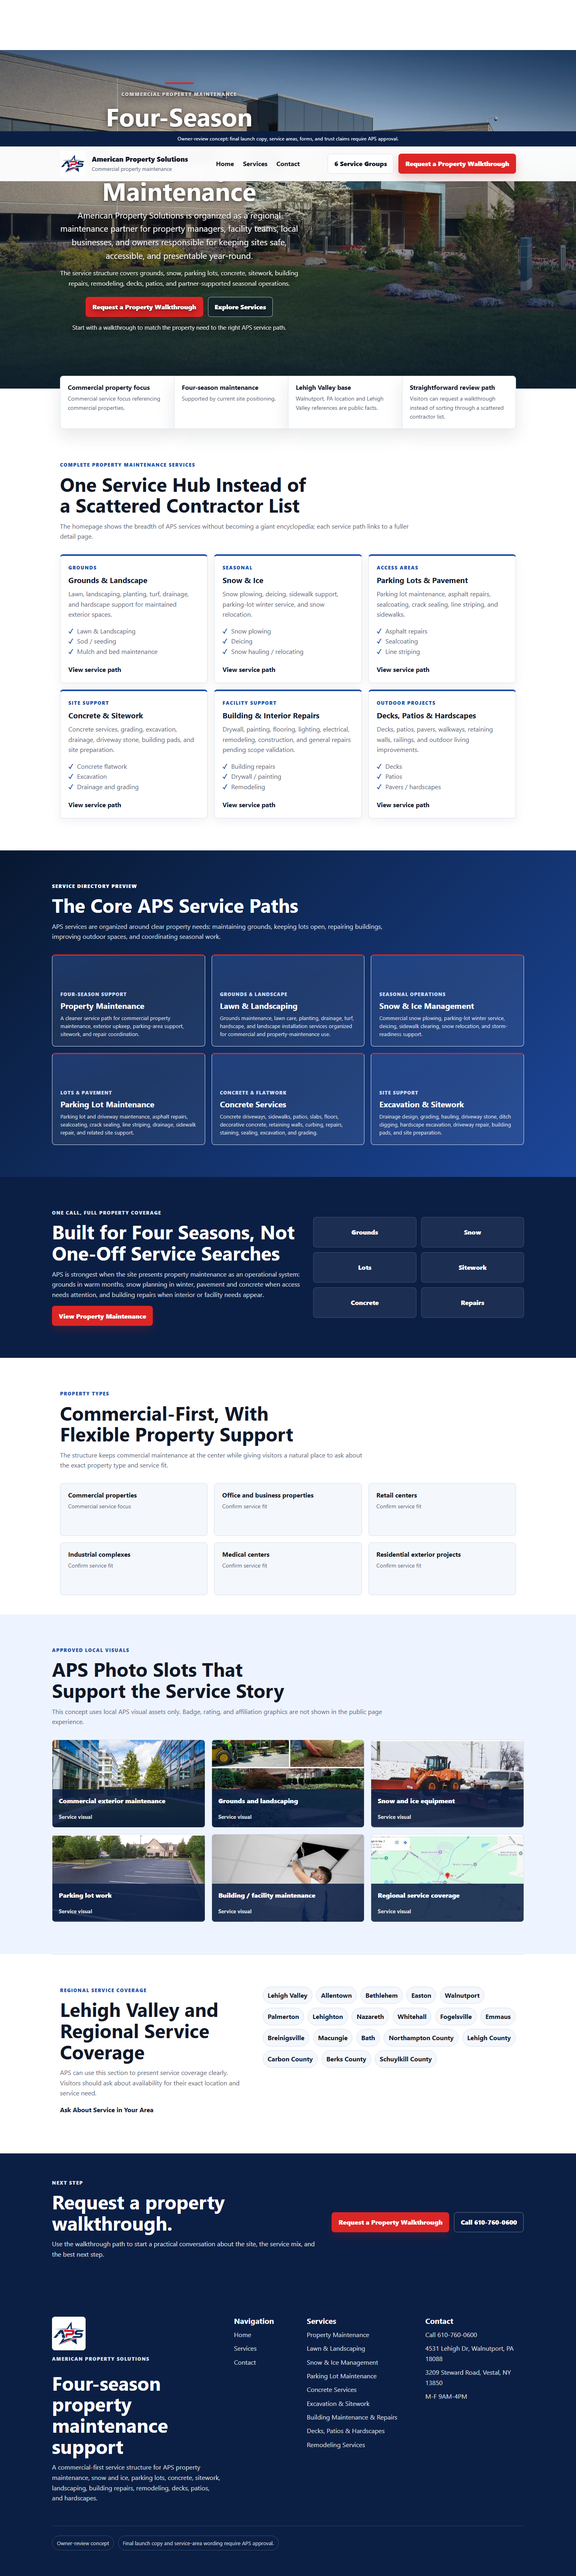
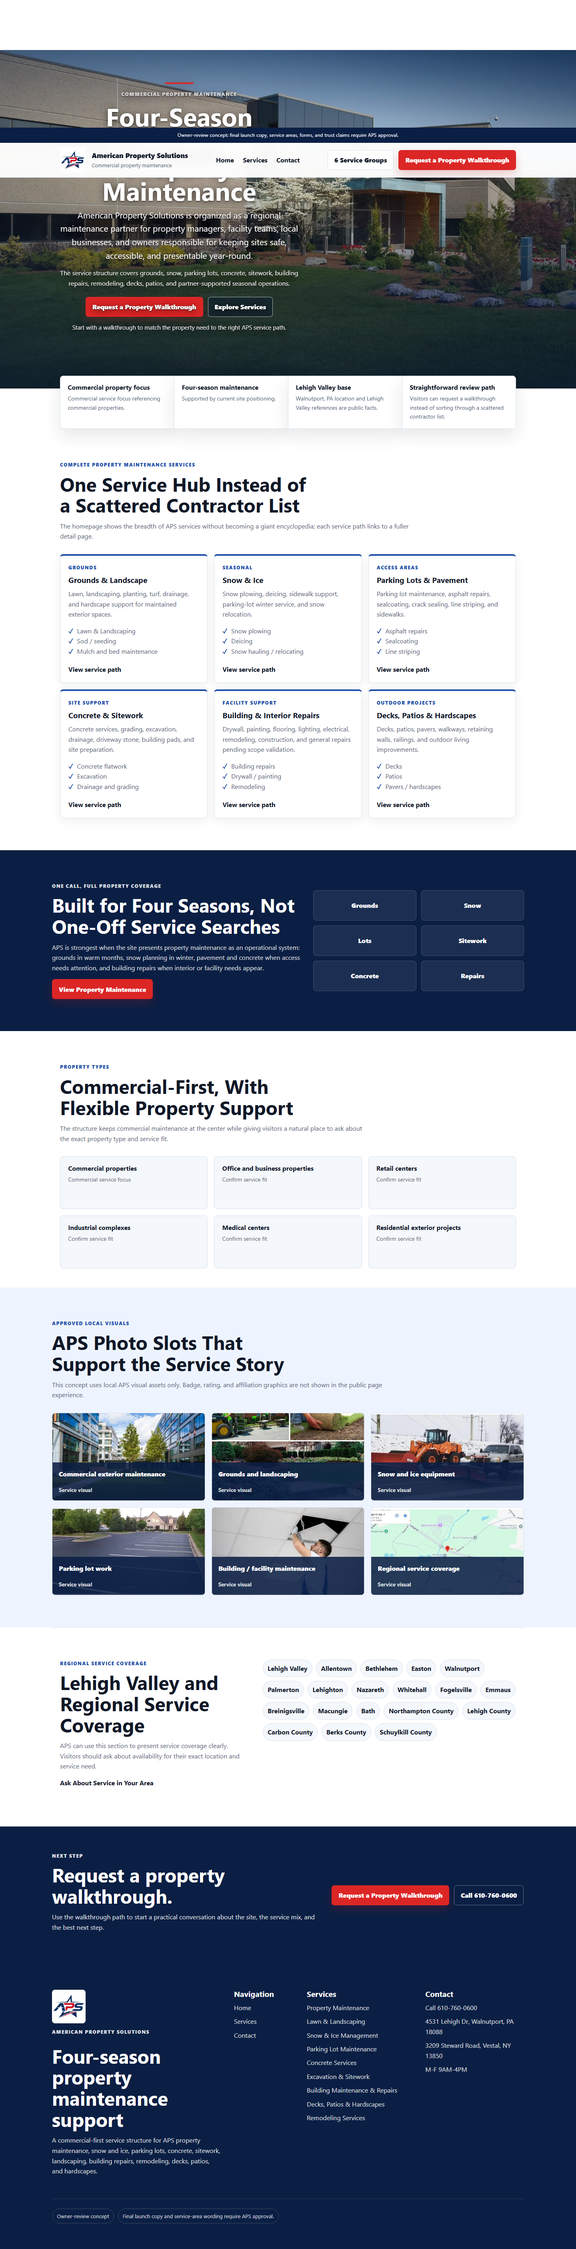
style: remove redundant service-paths mosaic from homepage
The homepage presented the same six services twice back-to-back: the
"One Service Hub" card grid and, immediately below it, "The Core APS
Service Paths" mosaic linking to largely the same detail pages. The
card grid is the stronger of the two (fuller summaries, scope
checklists, same destinations), so the mosaic section is removed.
Nothing is orphaned: Property Maintenance keeps its dedicated button in
the four-seasons band, and every service path remains linked from the
services hub and footer. Homepage after-screenshots refreshed.

diff --git a/website/app/page.tsx b/website/app/page.tsx
@@ -9,7 +9,6 @@ import {
   homeHeroSlides,
   propertyTypes,
   serviceAreas,
-  serviceCatalog,
   serviceGroups,
   trustBarItems
 } from "../lib/siteData";
@@ -19,8 +18,6 @@ export const metadata: Metadata = {
   description:
     "American Property Solutions commercial property maintenance concept for the Lehigh Valley, with complete four-season service organization and a property walkthrough path."
 };
-
-const featuredServices = serviceCatalog.slice(0, 6);
 
 export default function HomePage() {
   return (
@@ -75,27 +72,6 @@ export default function HomePage() {
         <div className="commercial-card-grid">
           {serviceGroups.map((service) => (
             <ServiceCard key={service.title} {...service} />
-          ))}
-        </div>
-      </section>
-
-      <section className="service-mosaic section" aria-labelledby="service-mosaic-heading">
-        <div className="section-heading wide-heading">
-          <p className="eyebrow on-dark">Service directory preview</p>
-          <h2 id="service-mosaic-heading">The Core APS Service Paths</h2>
-          <p>
-            APS services are organized around clear property needs: maintaining
-            grounds, keeping lots open, repairing buildings, improving outdoor
-            spaces, and coordinating seasonal work.
-          </p>
-        </div>
-        <div className="mosaic-grid">
-          {featuredServices.map((service) => (
-            <Link className="mosaic-tile" href={`/services/${service.slug}`} key={service.slug}>
-              <span>{service.eyebrow}</span>
-              <strong>{service.title}</strong>
-              <small>{service.summary}</small>
-            </Link>
           ))}
         </div>
       </section>
